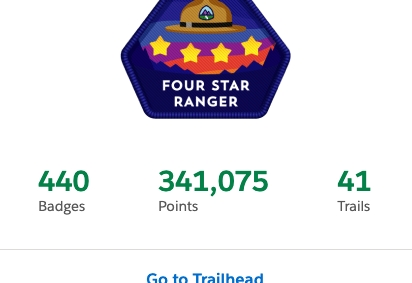
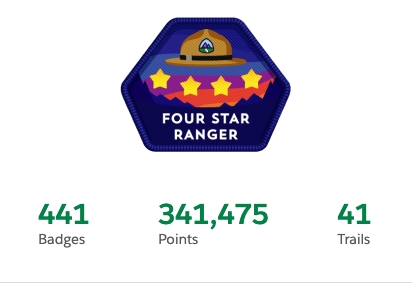
441 and adjusting the view port

diff --git a/index.js b/index.js
@@ -17,7 +17,7 @@ await page.screenshot({
   quality: 100,
   clip: {
     x: 545,
-    y: 345,
+    y: 312,
     width: 412,
     height: 283,
   },
